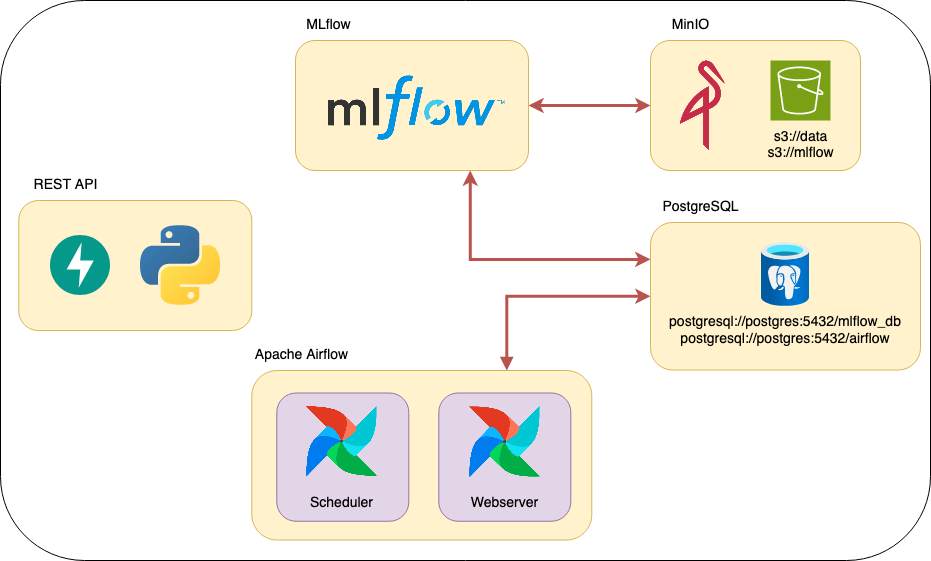
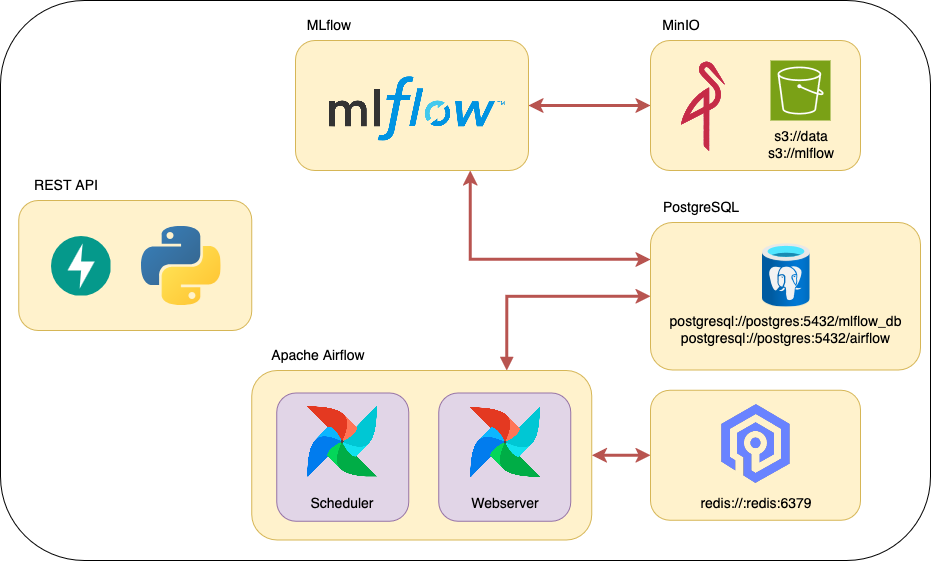
Feature/new airflow version (#6)
* improved postgress dockerfile

* improved airflow dockerfile

* improved fastapi dockerfile

* improved mlflow dockerfile

* new docker-compose file

* new readme

* fixed image

diff --git a/README.md b/README.md
@@ -2,14 +2,9 @@
 ### MLOps1 - CEIA - FIUBA
 Estructura de servicios para la implementación del proyecto final de MLOps1 - CEIA - FIUBA
 
-Supongamos que trabajamos para **ML Models and something more Inc.**, la cual ofrece un servicio 
-que proporciona modelos mediante una REST API. Internamente, tanto para realizar tareas de 
-DataOps como de MLOps, la empresa cuenta con varios servicios que ayudan a ejecutar las 
-acciones necesarias. También dispone de un Data Lake en S3, para este caso, simularemos un 
-S3 utilizando MinIO.
+Supongamos que trabajamos para **ML Models and something more Inc.**, la cual ofrece un servicio que proporciona modelos mediante una REST API. Internamente, tanto para realizar tareas de DataOps como de MLOps, la empresa cuenta con varios servicios que ayudan a ejecutar las acciones necesarias. También dispone de un Data Lake en S3, para este caso, simularemos un S3 utilizando MinIO.
 
-Para simular esta empresa, utilizaremos Docker y, a través de Docker Compose, desplegaremos 
-varios contenedores que representan distintos servicios en un entorno productivo.
+Para simular esta empresa, utilizaremos Docker y, a través de Docker Compose, desplegaremos varios contenedores que representan distintos servicios en un entorno productivo.
 
 Los servicios que contamos son:
 - [Apache Airflow](https://airflow.apache.org/)
@@ -17,6 +12,7 @@ Los servicios que contamos son:
 - API Rest para servir modelos ([FastAPI](https://fastapi.tiangolo.com/))
 - [MinIO](https://min.io/)
 - Base de datos relacional [PostgreSQL](https://www.postgresql.org/)
+- Base de dato key-value [ValKey](https://valkey.io/) 
 
 ![Diagrama de servicios](final_assign.png)
 
@@ -32,76 +28,53 @@ y las siguientes bases de datos:
 
 ## Tarea a realizar
 
-La tarea es implementar el modelo que desarrollaron en Aprendizaje de Máquina en este 
-ambiente productivo. Para ello, pueden usar y crear los buckets y bases de datos que 
-necesiten. Lo mínimo que deben realizar es:
+La tarea es implementar el modelo que desarrollaron en Aprendizaje de Máquina en este ambiente productivo. Para ello, pueden usar y crear los buckets y bases de datos que necesiten. Lo mínimo que deben realizar es:
 
-- Un DAG en Apache Airflow. Puede ser cualquier tarea que se desee realizar, como 
-entrenar el modelo, un proceso ETL, etc.
+- Un DAG en Apache Airflow. Puede ser cualquier tarea que se desee realizar, como entrenar el modelo, un proceso ETL, etc.
 - Un experimento en MLflow de búsqueda de hiperparámetros.
 - Servir el modelo implementado en AMq1 en el servicio de RESTAPI.
-- Documentar (comentarios y docstring en scripts, notebooks, y asegurar que la 
-documentación de FastAPI esté de acuerdo al modelo).
+- Documentar (comentarios y docstring en scripts, notebooks, y asegurar que la documentación de FastAPI esté de acuerdo al modelo).
 
-Desde **ML Models and something more Inc.** autorizan a extender los requisitos mínimos. 
-También pueden utilizar nuevos servicios (por ejemplo, una base de datos no relacional, 
-otro orquestador como MetaFlow, un servicio de API mediante NodeJs, etc.).
+Desde **ML Models and something more Inc.** autorizan a extender los requisitos mínimos. También pueden utilizar nuevos servicios (por ejemplo, una base de datos no relacional, otro orquestador como MetaFlow, un servicio de API mediante NodeJs, etc.).
 
 ### Ejemplo 
 
-El [branch `example_implementation`](https://github.com/facundolucianna/amq2-service-ml/tree/example_implementation) 
-contiene un ejemplo de aplicación para guiarse. Se trata de una implementación de un modelo de 
-clasificación utilizando los datos de 
-[Heart Disease](https://archive.ics.uci.edu/dataset/45/heart+disease).
+El [branch `example_implementation`](https://github.com/facundolucianna/amq2-service-ml/tree/example_implementation) contiene un ejemplo de aplicación para guiarse. Se trata de una implementación de un modelo de clasificación utilizando los datos de [Heart Disease](https://archive.ics.uci.edu/dataset/45/heart+disease).
+
+Además se cuenta con una implementación ejemplo de predicción en bache con una parte que funciona gran parte de local en [branch `batch-example`](https://github.com/facundolucianna/amq2-service-ml/tree/example_implementation)
 
 ## Instalación
 
-1. Para poder levantar todos los servicios, primero instala [Docker](https://docs.docker.com/engine/install/) en tu 
-computadora (o en el servidor que desees usar).
-
+1. Para poder levantar todos los servicios, primero instala [Docker](https://docs.docker.com/engine/install/) en tu computadora (o en el servidor que desees usar).
 2. Clona este repositorio.
-
-3. Crea las carpetas `airflow/config`, `airflow/dags`, `airflow/logs`, `airflow/plugins`, 
-`airflow/logs`.
-
-4. Si estás en Linux o MacOS, en el archivo `.env`, reemplaza `AIRFLOW_UID` por el de tu 
-usuario o alguno que consideres oportuno (para encontrar el UID, usa el comando 
-`id -u <username>`). De lo contrario, Airflow dejará sus carpetas internas como root y no 
-podrás subir DAGs (en `airflow/dags`) o plugins, etc.
-
+3. Crea las carpetas `airflow/config`, `airflow/dags`, `airflow/logs`, `airflow/plugins`, `airflow/logs`.
+4. Si estás en Linux o MacOS, en el archivo `.env`, reemplaza `AIRFLOW_UID` por el de tu usuario o alguno que consideres oportuno (para encontrar el UID, usa el comando `id -u <username>`). De lo contrario, Airflow dejará sus carpetas internas como root y no podrás subir DAGs (en `airflow/dags`) o plugins, etc.
 5. En la carpeta raíz de este repositorio, ejecuta:
 
 ```bash
 docker compose --profile all up
 ```
 
-6. Una vez que todos los servicios estén funcionando (verifica con el comando `docker ps -a` 
-que todos los servicios estén healthy o revisa en Docker Desktop), podrás acceder a los 
-diferentes servicios mediante:
+6. Una vez que todos los servicios estén funcionando (verifica con el comando `docker ps -a` que todos los servicios estén healthy o revisa en Docker Desktop), podrás acceder a los diferentes servicios mediante:
    - Apache Airflow: http://localhost:8080
    - MLflow: http://localhost:5001
    - MinIO: http://localhost:9001 (ventana de administración de Buckets)
    - API: http://localhost:8800/
    - Documentación de la API: http://localhost:8800/docs
 
-Si estás usando un servidor externo a tu computadora de trabajo, reemplaza `localhost` por su IP 
-(puede ser una privada si tu servidor está en tu LAN o una IP pública si no; revisa firewalls 
-u otras reglas que eviten las conexiones).
+Si estás usando un servidor externo a tu computadora de trabajo, reemplaza `localhost` por su IP (puede ser una privada si tu servidor está en tu LAN o una IP pública si no; revisa firewalls u otras reglas que eviten las conexiones).
 
-Todos los puertos u otras configuraciones se pueden modificar en el archivo `.env`. Se invita 
-a jugar y romper para aprender; siempre puedes volver a clonar este repositorio.
+Todos los puertos u otras configuraciones se pueden modificar en el archivo `.env`. Se invita a jugar y romper para aprender; siempre puedes volver a clonar este repositorio.
 
 ## Apagar los servicios
 
-Estos servicios ocupan cierta cantidad de memoria RAM y procesamiento, por lo que cuando no 
-se están utilizando, se recomienda detenerlos. Para hacerlo, ejecuta el siguiente comando:
+Estos servicios ocupan cierta cantidad de memoria RAM y procesamiento, por lo que cuando no se están utilizando, se recomienda detenerlos. Para hacerlo, ejecuta el siguiente comando:
 
 ```bash
 docker compose --profile all down
 ```
 
-Si deseas no solo detenerlos, sino también eliminar toda la infraestructura (liberando espacio en disco), 
-utiliza el siguiente comando:
+Si deseas no solo detenerlos, sino también eliminar toda la infraestructura (liberando espacio en disco), utiliza el siguiente comando:
 
 ```bash
 docker compose down --rmi all --volumes
@@ -112,27 +85,17 @@ Nota: Si haces esto, perderás todo en los buckets y bases de datos.
 ## Aspectos específicos de Airflow
 
 ### Variables de entorno
-Airflow ofrece una amplia gama de opciones de configuración. En el archivo `docker-compose.yaml`, 
-dentro de `x-airflow-common`, se encuentran variables de entorno que pueden modificarse para 
-ajustar la configuración de Airflow. Pueden añadirse 
-[otras variables](https://airflow.apache.org/docs/apache-airflow/stable/configurations-ref.html).
+Airflow ofrece una amplia gama de opciones de configuración. En el archivo `docker-compose.yaml`, dentro de `x-airflow-common`, se encuentran variables de entorno que pueden modificarse para ajustar la configuración de Airflow. Pueden añadirse [otras variables](https://airflow.apache.org/docs/apache-airflow/stable/configurations-ref.html).
 
 ### Uso de ejecutores externos
-Actualmente, para este caso, Airflow utiliza un ejecutor local, lo que significa que los DAGs 
-se ejecutan en el mismo contenedor. Si desean simular un entorno más complejo, pueden levantar 
-contenedores individuales que actúen como ejecutores utilizando 
-[celery](https://airflow.apache.org/docs/apache-airflow/stable/core-concepts/executor/celery.html), lo que permitirá 
-realizar procesamiento paralelo. Pueden encontrar más información sobre cómo hacerlo 
-[aquí](https://xnuinside.medium.com/quick-tutorial-apache-airflow-with-3-celery-workers-in-docker-composer-9f2f3b445e4). 
-Sin embargo, se decidió no implementarlo en este caso para evitar consumir más recursos.
+Actualmente, para este caso, Airflow utiliza un ejecutor [celery](https://airflow.apache.org/docs/apache-airflow/stable/core-concepts/executor/celery.html), lo que significa que las tareas se ejecutan en otro contenedor. 
 
 ### Uso de la CLI de Airflow
 
-Si necesitan depurar Apache Airflow, pueden utilizar la CLI de Apache Airflow de la siguiente 
-manera:
+Si necesitan depurar Apache Airflow, pueden utilizar la CLI de Apache Airflow de la siguiente manera:
 
 ```bash
-docker compose --profile all --profile debug down
+docker compose --profile all --profile debug up
 ```
 
 Una vez que el contenedor esté en funcionamiento, pueden utilizar la CLI de Airflow de la siguiente manera, 
@@ -142,28 +105,19 @@ por ejemplo, para ver la configuración:
 docker-compose run airflow-cli config list      
 ```
 
-Para obtener más información sobre el comando, pueden consultar 
-[aqui](https://airflow.apache.org/docs/apache-airflow/stable/cli-and-env-variables-ref.html).
+Para obtener más información sobre el comando, pueden consultar [aqui](https://airflow.apache.org/docs/apache-airflow/stable/cli-and-env-variables-ref.html).
 
 ### Variables y Conexiones
 
-Si desean agregar variables para accederlas en los DAGs, pueden hacerlo en 
-`secrets/variables.yaml`. Para obtener más 
-[información](https://airflow.apache.org/docs/apache-airflow/stable/core-concepts/variables.html), 
+Si desean agregar variables para accederlas en los DAGs, pueden hacerlo en `secrets/variables.yaml`. Para obtener más [información](https://airflow.apache.org/docs/apache-airflow/stable/core-concepts/variables.html), 
 consulten la documentación.
 
-Si desean agregar conexiones en Airflow, pueden hacerlo en `secrets/connections.yaml`. 
-También es posible agregarlas mediante la interfaz de usuario (UI), pero estas no 
-persistirán si se borra todo. Por otro lado, cualquier conexión guardada en 
-`secrets/connections.yaml` no aparecerá en la UI, aunque eso no significa que no exista. 
-Consulten la documentación para obtener más 
+Si desean agregar conexiones en Airflow, pueden hacerlo en `secrets/connections.yaml`. También es posible agregarlas mediante la interfaz de usuario (UI), pero estas no persistirán si se borra todo. Por otro lado, cualquier conexión guardada en `secrets/connections.yaml` no aparecerá en la UI, aunque eso no significa que no exista. Consulten la documentación para obtener más 
 [información](https://airflow.apache.org/docs/apache-airflow/stable/authoring-and-scheduling/connections.html).
 
 ## Conexión con los buckets
 
-Dado que no estamos utilizando Amazon S3, sino una implementación local de los mismos 
-mediante MinIO, es necesario modificar las variables de entorno para conectar con el servicio 
-de MinIO. Las variables de entorno son las siguientes:
+Dado que no estamos utilizando Amazon S3, sino una implementación local de los mismos mediante MinIO, es necesario modificar las variables de entorno para conectar con el servicio de MinIO. Las variables de entorno son las siguientes:
 
 ```bash
 AWS_ACCESS_KEY_ID=minio   
@@ -173,28 +127,23 @@ AWS_ENDPOINT_URL_S3=http://localhost:90000
 
 MLflow también tiene una variable de entorno que afecta su conexión a los buckets:
 
-```
+```bash
 MLFLOW_S3_ENDPOINT_URL=http://localhost:9000
 ```
-Asegúrate de establecer estas variables de entorno antes de ejecutar tu notebook o scripts en 
-tu máquina o en cualquier otro lugar. Si estás utilizando un servidor externo a tu 
-computadora de trabajo, reemplaza localhost por su dirección IP.
+Asegúrate de establecer estas variables de entorno antes de ejecutar tu notebook o scripts en tu máquina o en cualquier otro lugar. Si estás utilizando un servidor externo a tu computadora de trabajo, reemplaza localhost por su dirección IP.
 
-Al hacer esto, podrás utilizar `boto3`, `awswrangler`, etc., en Python con estos buckets, o `awscli` 
-en la consola.
+Al hacer esto, podrás utilizar `boto3`, `awswrangler`, etc., en Python con estos buckets, o `awscli` en la consola.
 
-Si tienes acceso a AWS S3, ten mucho cuidado de no reemplazar tus credenciales de AWS. Si usas las variables 
-de entorno, no tendrás problemas.
+Si tienes acceso a AWS S3, ten mucho cuidado de no reemplazar tus credenciales de AWS. Si usas las variables de entorno, no tendrás problemas.
 
+## Valkey
+
+La base de datos Valkey es usada por Apache Airflow para su funcionamiento. Tal como está configurado ahora no esta expuesto el puerto para poder ser usado externamente. Se puede modificar el archivo `docker-compose.yaml` para habilitaro.
 
 ## Pull Request
 
-Este repositorio está abierto para que realicen sus propios Pull Requests y así contribuir a 
-mejorarlo. Si desean realizar alguna modificación, **¡son bienvenidos!** También se pueden crear 
-nuevos entornos productivos para aumentar la variedad de implementaciones, idealmente en diferentes `branches`. 
-Algunas ideas que se me ocurren que podrían implementar son:
+Este repositorio está abierto para que realicen sus propios Pull Requests y así contribuir a mejorarlo. Si desean realizar alguna modificación, **¡son bienvenidos!** También se pueden crear nuevos entornos productivos para aumentar la variedad de implementaciones, idealmente en diferentes `branches`. Algunas ideas que se me ocurren que podrían implementar son:
 
 - Reemplazar Airflow y MLflow con [Metaflow](https://metaflow.org/) o [Kubeflow](https://www.kubeflow.org).
-- Implementar Airflow con ejecutores de Celery y [Flower](https://airflow.apache.org/docs/apache-airflow/stable/security/flower.html).
 - Reemplazar MLflow con [Seldon-Core](https://github.com/SeldonIO/seldon-core).
 - Agregar un servicio de tableros como, por ejemplo, [Grafana](https://grafana.com).
